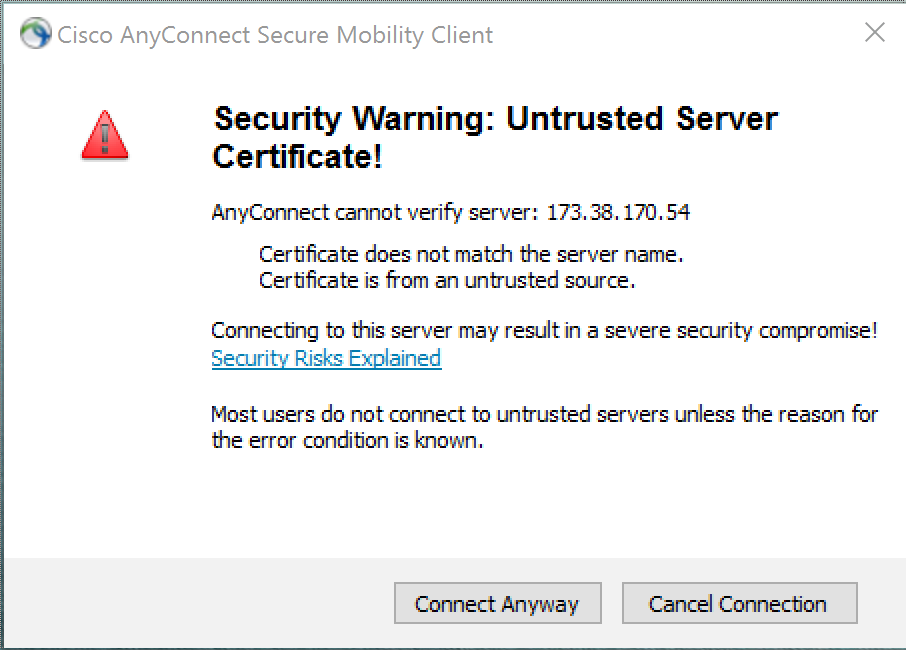
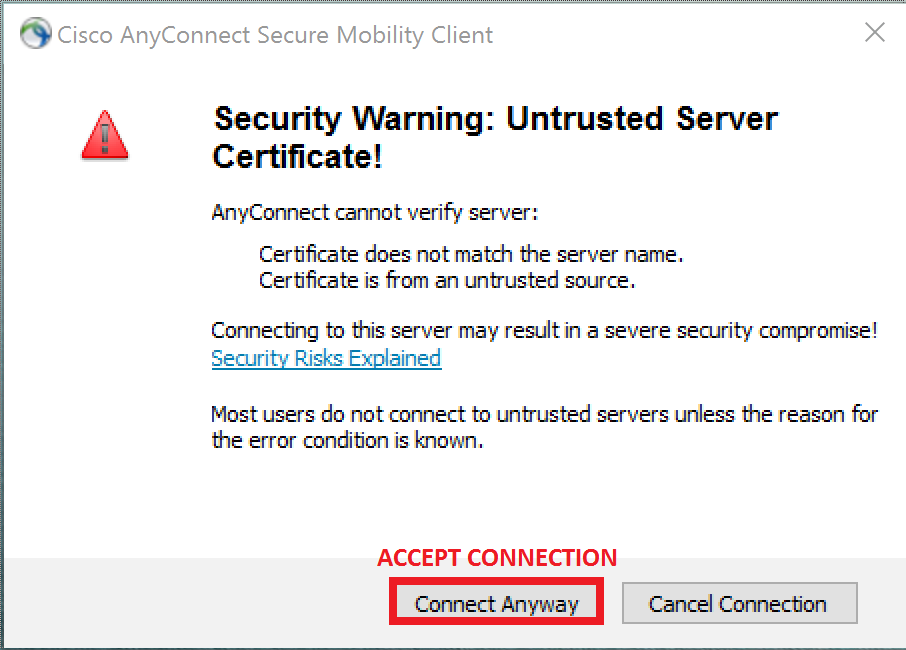
updated screenshots

Changed region(s): [[0.4018, 0.8308, 0.6799, 0.9846], [0.5872, 0.3077, 0.7726, 0.3385]]

diff --git a/HybridCloudApp/Documentation/environment_access.md b/HybridCloudApp/Documentation/environment_access.md
@@ -50,7 +50,7 @@ DMZ_User_20 | POD 07-D | https://vc-pod07.hybridlab.local | https://172.18.1.241
 
 ### 2.1 Cisco Anyconnect Mobility Client
 
-Run Cisco Anyconnect VPN client available on your desktop:
+Run Cisco Anyconnect VPN client available on your desktop.
 
 You’ll need to review and configure the AnyConnect options. After Anyconnect launches, you’ll need to click on the “Configuration” button on the main panel. See image below.
 
@@ -64,19 +64,19 @@ Close the Configuration window.
 
 In the main entry field, enter your Private Infrastructure VPN IP Address as provided in the credentials.txt. Then choose “Connect”.
 
-![anyconnect picture with IP address here](https://raw.githubusercontent.com/pradeesi/HybridCloudApp/master/HybridCloudApp/Documentation/images/anyconnect_with_IP.png)
+![anyconnect picture with IP address here](https://raw.githubusercontent.com/pradeesi/HybridCloudApp/master/HybridCloudApp/Documentation/images/anyconnect_without_IP.png)
 
 After a few seconds, you’ll see a new window notifying you of an “Untrusted Server Certificate”. This is expected and not a real issue. Choose “Connect Anyway”.
 
-**![anyconnect picture accept untrusted certificate here](https://raw.githubusercontent.com/pradeesi/HybridCloudApp/master/HybridCloudApp/Documentation/images/anyconnect_accept_cert.png)**
+![anyconnect picture accept untrusted certificate here](https://raw.githubusercontent.com/pradeesi/HybridCloudApp/master/HybridCloudApp/Documentation/images/anyconnect_accept_cert.png)
 
 You’ll see a new window prompting you to provide your Lab’s network credentials. Enter the Username and Password as provided in the credentials.txt file. Choose “OK”.
 
-**![anyconnect picture provide username and password](https://raw.githubusercontent.com/pradeesi/HybridCloudApp/master/HybridCloudApp/Documentation/images/anyconnect_login.png)**
+![anyconnect picture provide username and password](https://raw.githubusercontent.com/pradeesi/HybridCloudApp/master/HybridCloudApp/Documentation/images/anyconnect_login.png)
 
 Next you’ll see the main AnyConnect window go through several connection states. When it has completed establishing the connection, AnyConnect will iconify in the Notification Area of the Windows Taskbar. When you have an established VPN connection, the AnyConnect icon will display a symbol of a padlock, as shown here.
 
-> **![Picture of connected VPN icon only](https://raw.githubusercontent.com/pradeesi/HybridCloudApp/master/HybridCloudApp/Documentation/images/anyconnect_icon_connected.png)**
+![Picture of connected VPN icon only](https://raw.githubusercontent.com/pradeesi/HybridCloudApp/master/HybridCloudApp/Documentation/images/anyconnect_icon_connected.png)
 
 Congratulations! Your are connected to infrastructure on-prem. You can interact with resources in your lab by either using jumphost or accessing devices directly. 
 
@@ -89,7 +89,7 @@ Open Remote Desktop Client (icon available on the desktop) and login to the jump
 [172.18.0.10](rdp://172.18.0.10)
 User your user with a domain HYBRIDLAB\ <user_name>
 
-> **![screenshot of remote desktop](https://raw.githubusercontent.com/pradeesi/HybridCloudApp/master/HybridCloudApp/Documentation/images/rdp_dmz_ip.png)**
+**![screenshot of remote desktop](https://raw.githubusercontent.com/pradeesi/HybridCloudApp/master/HybridCloudApp/Documentation/images/rdp_dmz_ip.png)**
 
 
 ## 3. Accessing Cisco Container Platrofm
